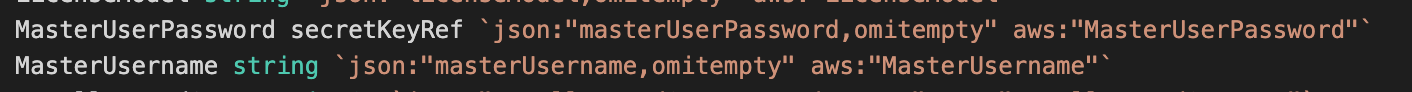
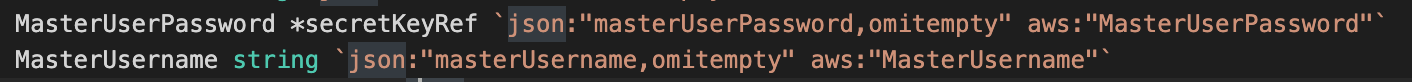
minor changes

diff --git a/docs/secrets/secrets.md b/docs/secrets/secrets.md
@@ -4,11 +4,11 @@
 Alice is a frequent Kubernetes user excited to create a database instance using Amazon RDS. She is very familiar with Kubernetes, but doesn't want to dive into learning about the Amazon API space. She is thrilled to use ACK, AWS Controllers for Kubernetes, to easily create a MySQL database. Before ACK, Alice needed to manually call the createDBInstance method from the RDS API in the AWS console, and type in a MasterUserPassword in plain text. With the method call to create and the method call to describe the DB instance, her password was in plain text for the API request and response. That didn't seem very secure to Alice. 
 The Custom Resource Definition currently shows that the MasterUserPassword is a string:
 
-![Initial CRD for DB Instance](images/rds-db-instance-crd-before.png)
+![Initial CRD for Desired State of DB Instance](images/rds-db-instance-crd-before.png)
 
 Now with secrets integration in ACK, Alice creates a new Kubernetes secret and refers to the secret when creating a manifest of the DB Instance. When calling to describe the manifest, instead of her password printing explicitly in terminal, she sees the name of the secret reference that she created before. 
 
-![Projected CRD for DB Instance](images/rds-db-instance-crd-after.png)
+![Projected CRD for Desired State of DB Instance](images/rds-db-instance-crd-after.png)
 
 
 ### In Scope
